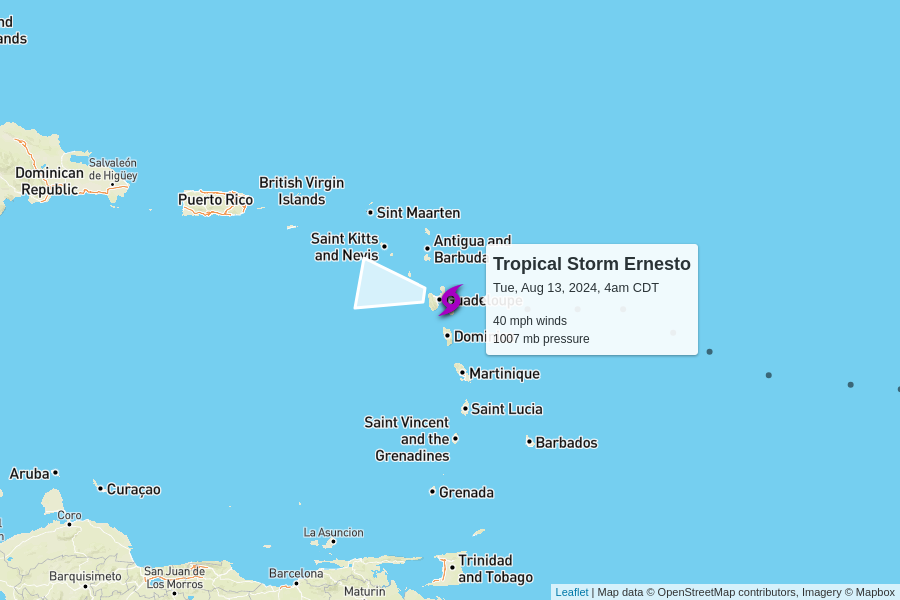
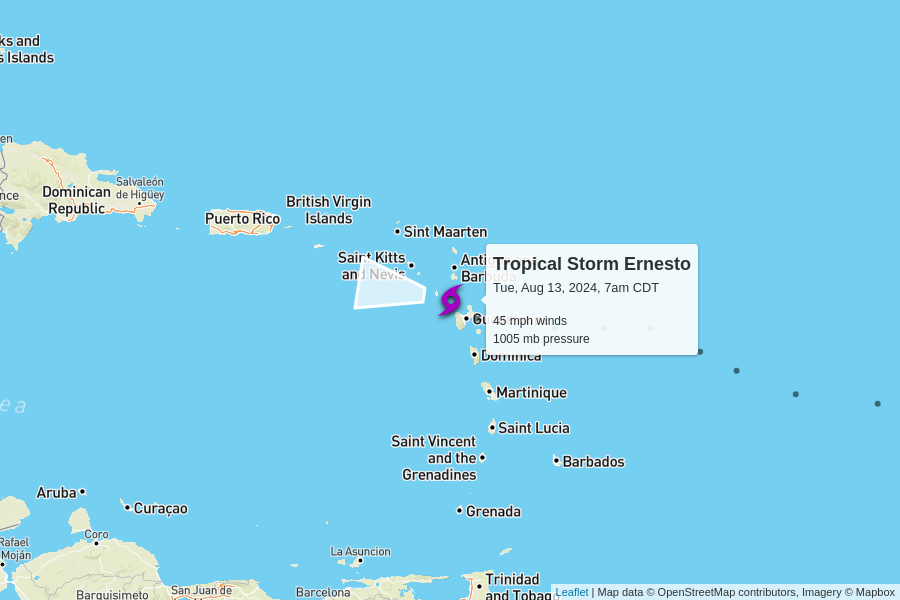
automatic update

diff --git a/docs/index.html b/docs/index.html
@@ -102,7 +102,7 @@
         <td colspan="6" class="storm category-0" >
           <h2>
             Tropical Storm Ernesto
-            <p class="updated">last updated <span data-time>2024-08-13T09:00:00.000Z</span></p>
+            <p class="updated">last updated <span data-time>2024-08-13T12:00:00.000Z</span></p>
           </h2>
         </td>
       </tr>
@@ -117,10 +117,10 @@
       </tr>
       <tr>
         <td class="spacer"></td>
-        <td>40 mph<br>0 mph since last update</td>
-        <td>1007 mb<br>-2 mb since last update</td>
+        <td>45 mph<br>+5 mph since last update</td>
+        <td>1005 mb<br>-2 mb since last update</td>
         <td>
-          20 mph to the west
+          18 mph to the west
           <br/>
           <span style="display: inline-block; font-size: 1.5em; transform: rotate(280deg);">↑</span>
         </td>
